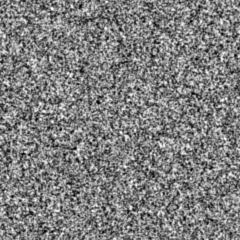
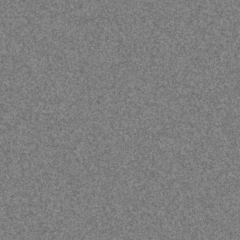
Retire les animations au survol des illustrations; grain du voile plus discret
Claude-Session: https://claude.ai/code/session_013GcFnatW4anFAXBN47GWwL

diff --git a/index.html b/index.html
@@ -161,7 +161,7 @@ footer{padding-bottom:110px}
 .itit .l{display:inline-block;color:#fff3c4;opacity:.8;animation:itt 3.4s ease-in-out infinite;animation-delay:var(--d)}
 @keyframes itt{0%,100%{opacity:.78;color:#f1d58a;text-shadow:0 0 5px rgba(253,226,140,.7),0 0 14px rgba(240,180,80,.5)}42%{opacity:1;color:#fffbe6;text-shadow:0 0 7px #fff7d6,0 0 20px #ffd978,0 0 42px rgba(240,170,70,.85)}58%{opacity:.85;color:#fff0b8;text-shadow:0 0 6px rgba(255,240,190,.9),0 0 16px rgba(253,200,100,.7)}}
 @media(max-width:700px){.itit{font-size:clamp(2.6rem,13vw,4.4rem);letter-spacing:.26em}.istage::before{content:"";position:absolute;left:0;right:0;top:0;height:16vh;z-index:3;pointer-events:none;background:linear-gradient(180deg,#0b0815 0%,rgba(11,8,21,.82) 22%,rgba(11,8,21,.5) 50%,rgba(11,8,21,.18) 78%,rgba(11,8,21,0) 100%);opacity:var(--topShade,1)}}
-.igrain{position:absolute;inset:0;z-index:2;pointer-events:none;opacity:.16;mix-blend-mode:overlay;background-image:url(/img/grain-gris.png?v=1);background-size:240px}
+.igrain{position:absolute;inset:0;z-index:2;pointer-events:none;opacity:.16;mix-blend-mode:overlay;background-image:url(/img/grain-gris.png?v=3);background-size:240px}
 .iskip{position:absolute;top:calc(16px + env(safe-area-inset-top,0px));right:16px;z-index:6;font-family:var(--f-label);font-size:.66rem;letter-spacing:.24em;text-transform:uppercase;color:var(--parch-dim);background:none;border:0;padding:8px 6px;cursor:pointer;transition:opacity .4s,color .2s}
 .iskip:hover{color:var(--gold)}
 .iskip.off{opacity:0;pointer-events:none}
@@ -190,8 +190,7 @@ footer{padding-bottom:110px}
 /* ---------- Planches ---------- */
 .plate{margin:0;position:relative;isolation:isolate;width:100%;max-width:460px;justify-self:center}
 .plate::before{content:"";position:absolute;inset:-8%;z-index:-1;background:radial-gradient(closest-side,var(--tint,rgba(179,154,230,.5)),transparent);opacity:.7}
-.plate img{display:block;width:100%;height:auto;cursor:default;transition:transform .6s cubic-bezier(.2,.7,.2,1)}
-.plate:hover img{transform:translateY(-6px) scale(1.012)}
+.plate img{display:block;width:100%;height:auto;cursor:default}
 .plate figcaption{font-style:italic;font-size:1rem;color:var(--parch-dim);margin-top:1rem;text-align:center}
 
 /* ---------- Laëria ---------- */
@@ -980,12 +979,6 @@ footer p{color:var(--parch-dim);font-style:italic;margin-top:.4rem}
 
   /* ---------- Couverture en relief ---------- */
   var cover=document.getElementById('cover');
-  if(cover&&!reduce&&window.matchMedia('(hover:hover)').matches){
-    var st=cover.parentElement;
-    st.addEventListener('pointermove',function(e){var r=st.getBoundingClientRect();var x=(e.clientX-r.left)/r.width-.5,y=(e.clientY-r.top)/r.height-.5;
-      cover.style.transform='rotateY('+(x*14)+'deg) rotateX('+(-y*10)+'deg)';cover.style.setProperty('--shine',(50-x*120)+'%');});
-    st.addEventListener('pointerleave',function(){cover.style.transform='';cover.style.setProperty('--shine','100%');});
-  }
 
 
   function clamp(x){return x<0?0:x>1?1:x;}
